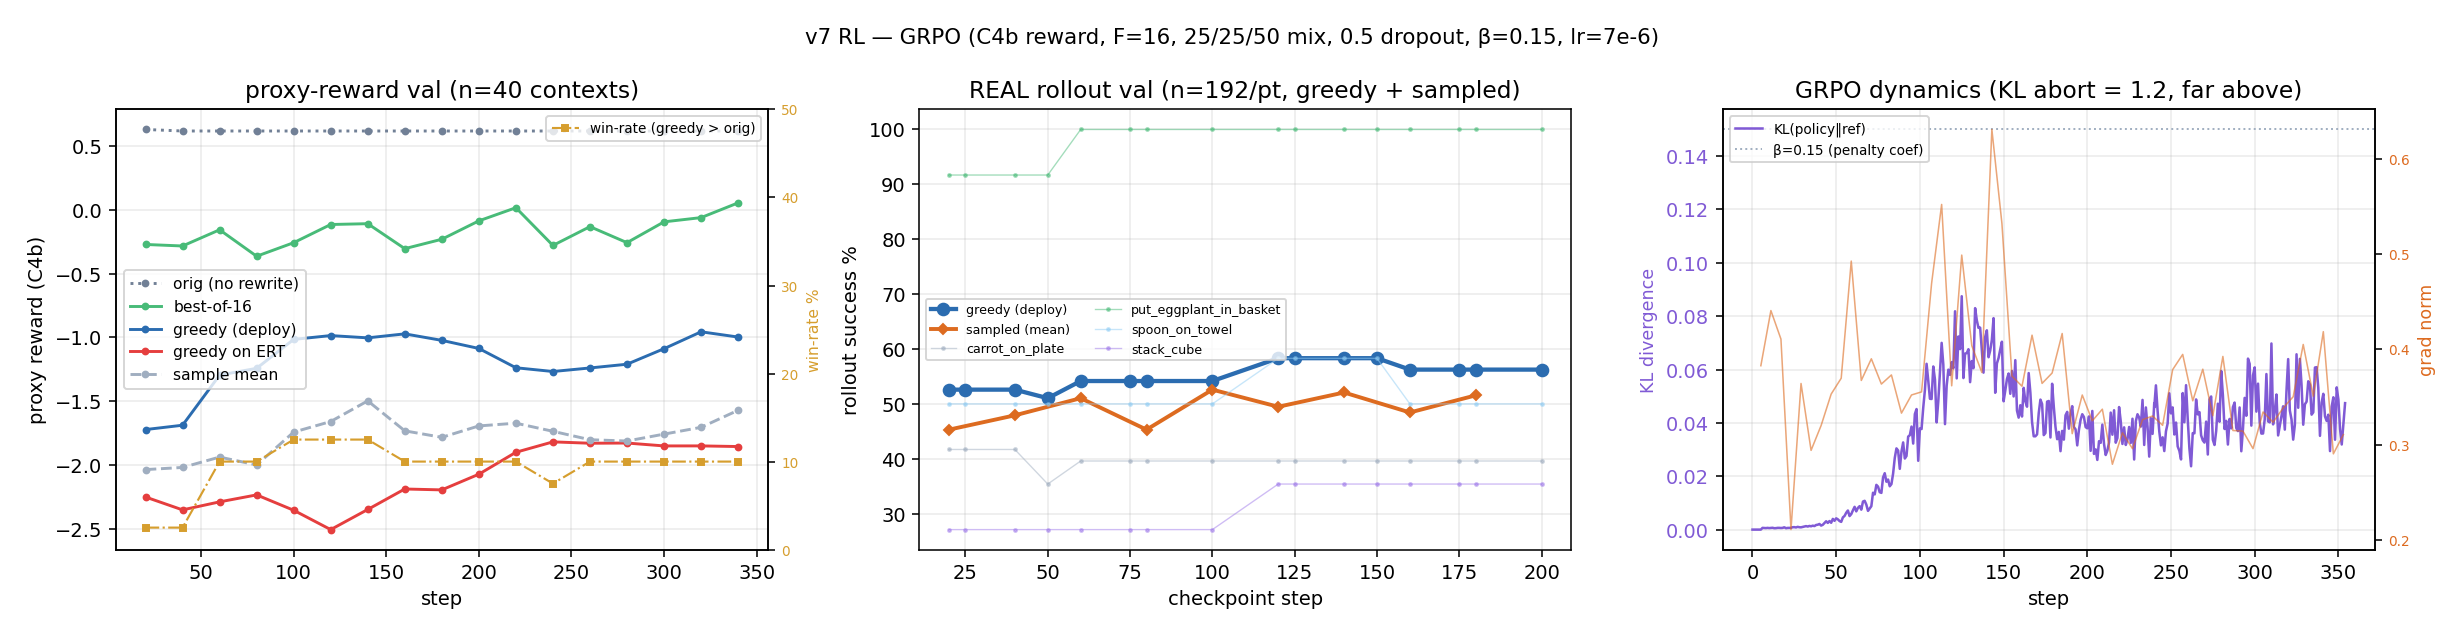
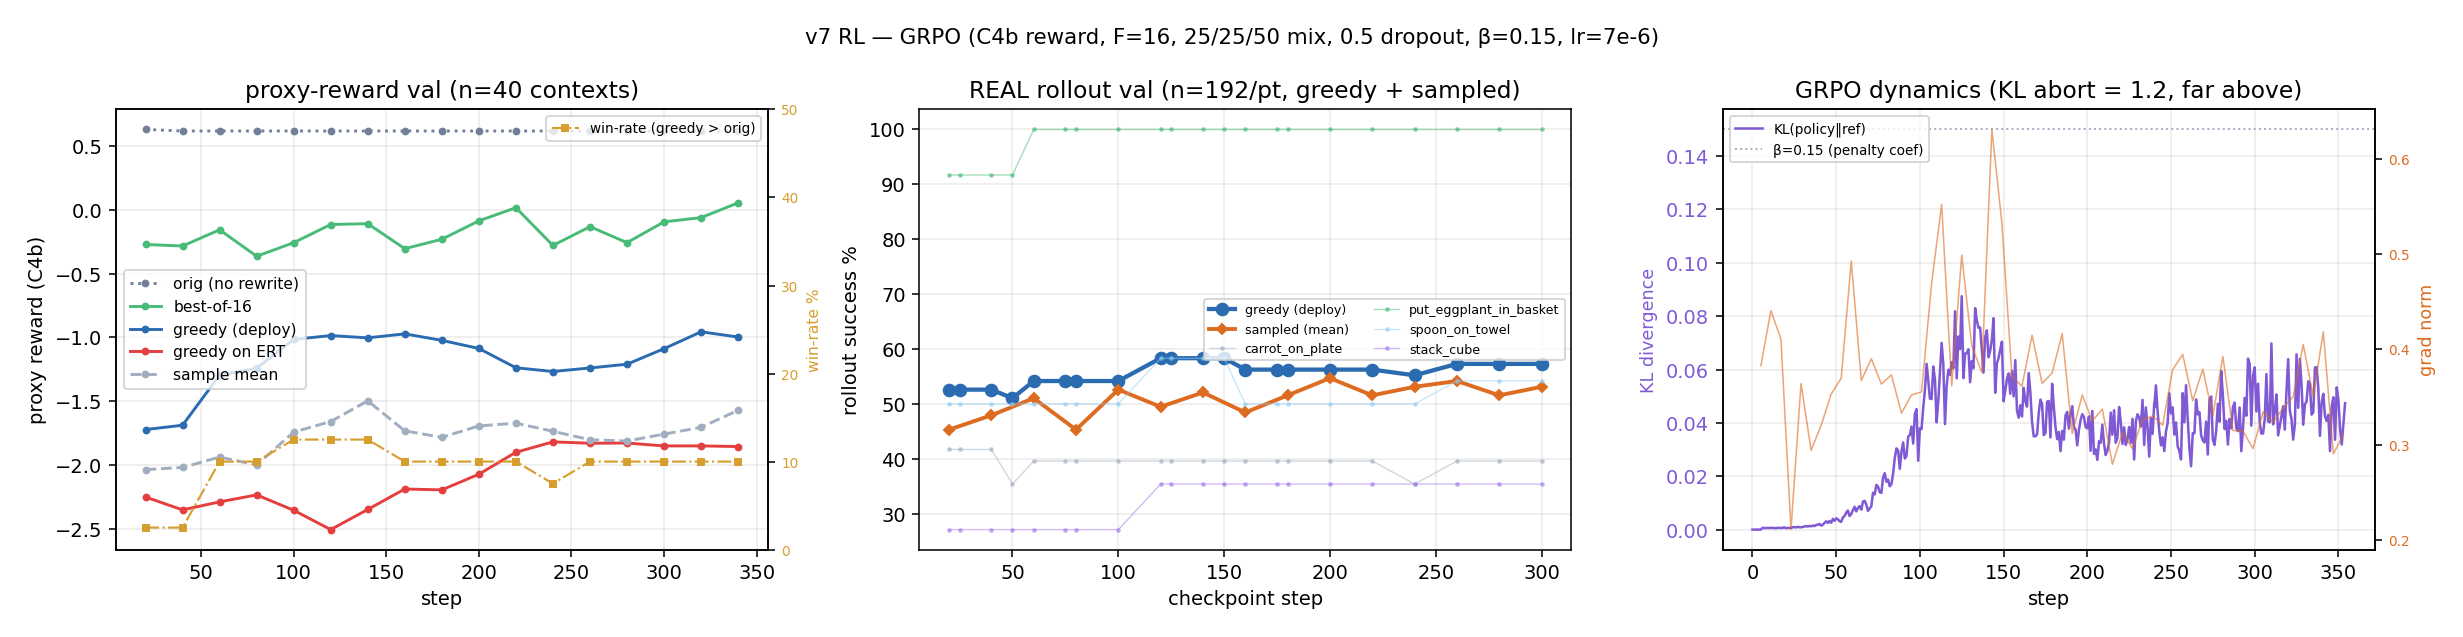
v7 backfill complete: best-checkpoint analysis (plateau ~54-56%, greedy peak 120-140)

diff --git a/EXPERIMENT.md b/EXPERIMENT.md
@@ -1895,3 +1895,18 @@ plateau, beta was the brake; if only its proxy/win-rate rise, it's reward-hackin
 Fork point step_0140 provisional (backfill still running; re-point via FORK_CKPT
 if a better checkpoint emerges). v7 proper stopped at ~step 355 (plateaued;
 snapshots archived); L40S repurposed to v7b.
+
+## 2026-07-27 — v7 backfill COMPLETE: best-checkpoint analysis (15/15, greedy+sampled from weights)
+Full curve, n=192/condition/checkpoint (SE ~3.6pp, so ~2pp diffs are within noise):
+  best greedy   step 120/140 (58.3)
+  best sampled  step 200 (54.7)
+  best mean     step 260 (55.7)
+VERDICT: v7 PLATEAUED. Mean rollout sits 53-56% across steps 100-300 with no
+statistically distinguishable peak (all within ~1 SE). Greedy peaks early
+(120-140) then eases to ~56-57; sampled is noisier and slightly favors LATER
+checkpoints (200, 260) — i.e. late training tightened the distribution a hair
+(sampled 45->54) without moving the argmax. Deploy-greedy -> ship step 140;
+deploy-sampled -> step 200. Fork point for v7b (step 140) confirmed as the
+greedy peak with strong sampled (52.1); within noise of 200/260 so a sound
+choice. This plateau (+ the collapsed KL) is exactly what motivated the v7b
+beta=0.05 fork.
